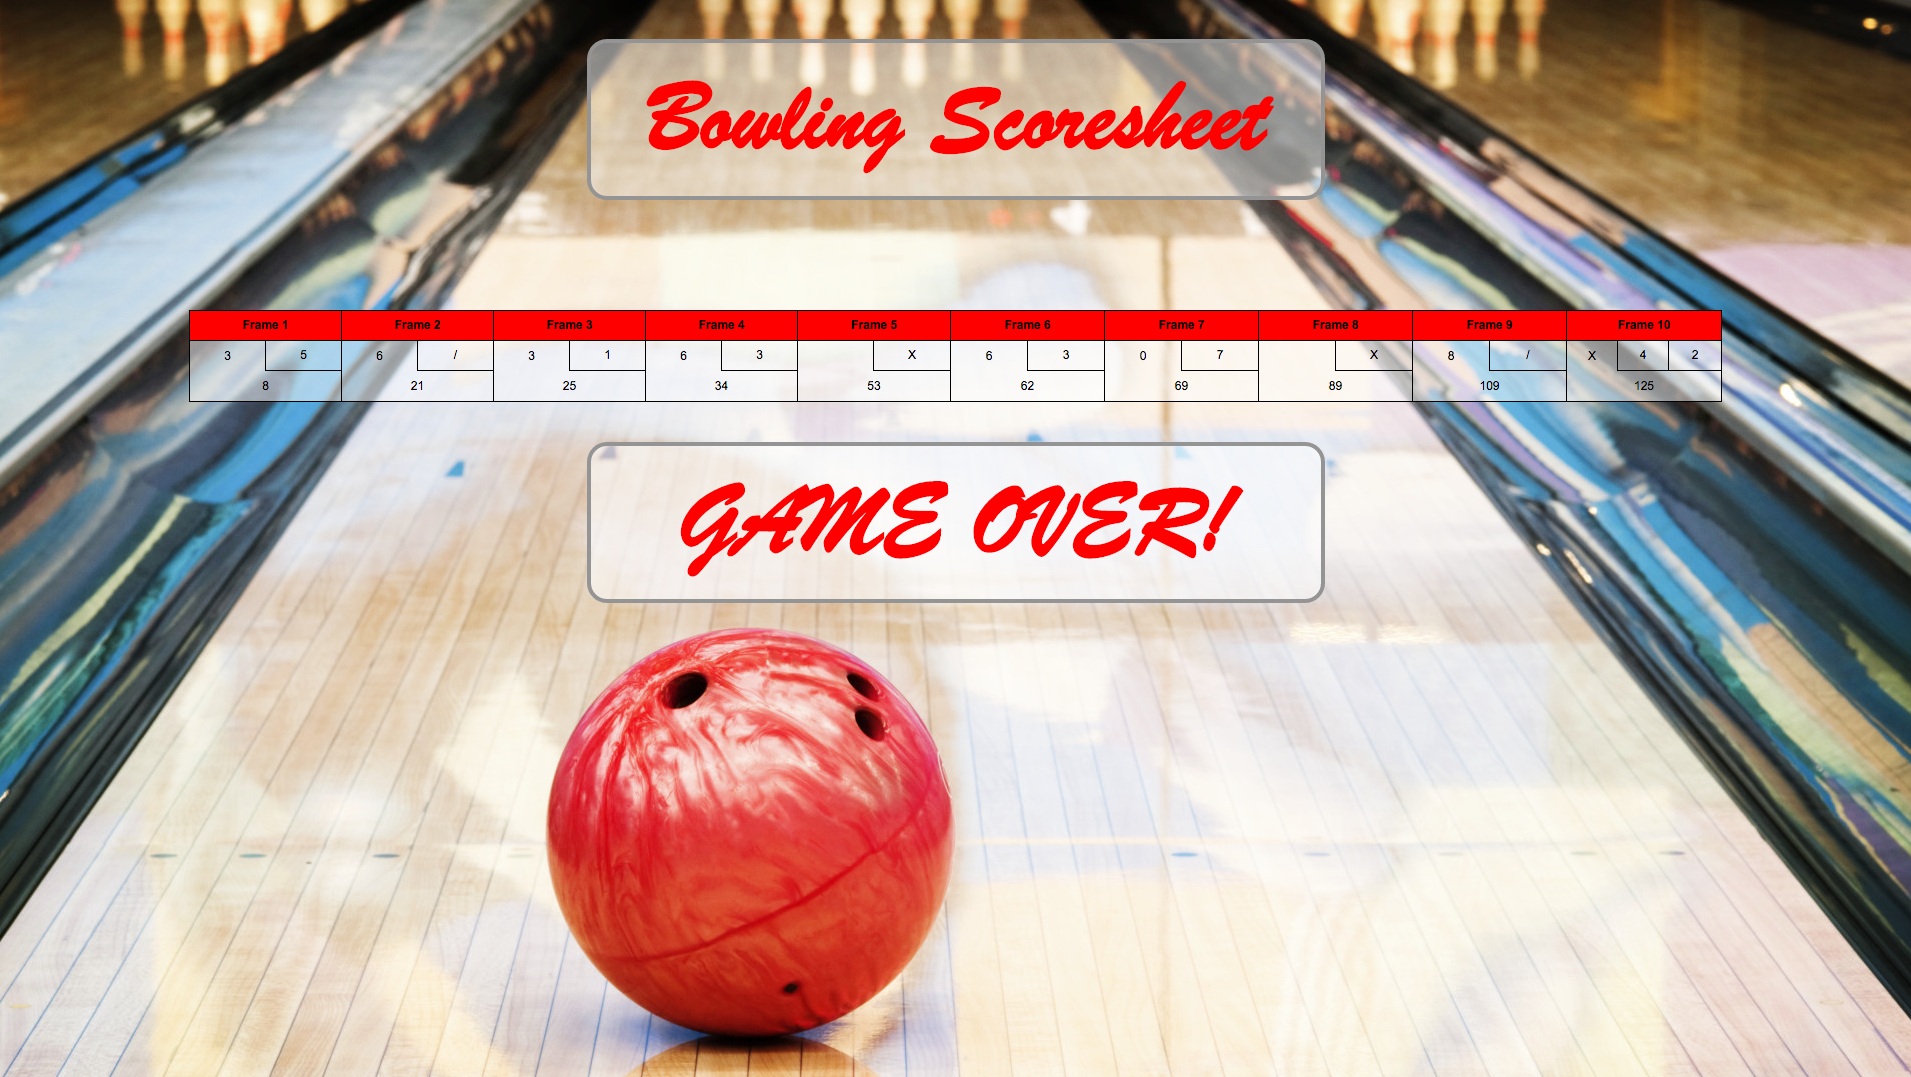
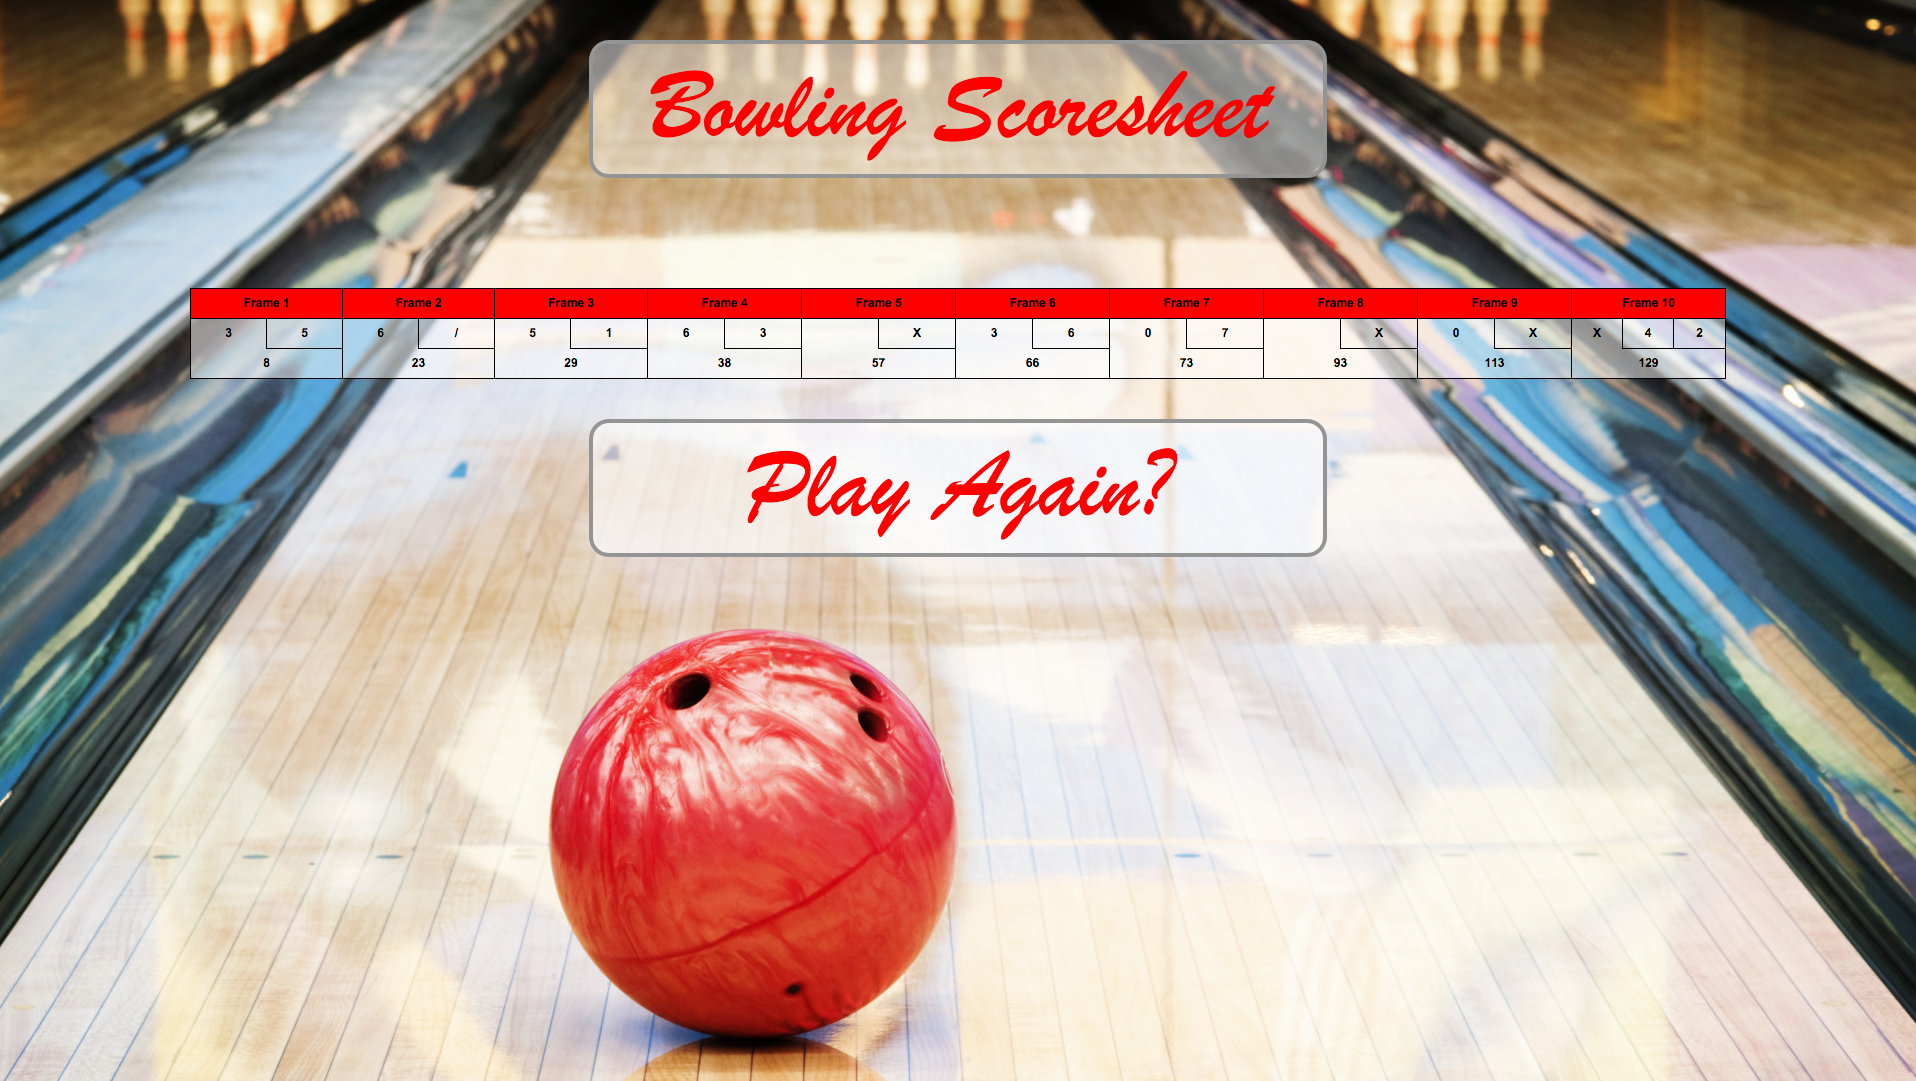
Added: Play again logic

diff --git a/public/js/App.js b/public/js/App.js
@@ -1,16 +1,30 @@
-scoresheet = new Scoresheet;
-
 $(document).ready(function() {
+  scoresheet = new Scoresheet;
   $('#title').hide();
   $('#buttons').hide();
   $('#scoresheet').hide();
   buttons(0);
-  $('#title').hide().fadeIn(500, function() {
+  $('#title').fadeIn(500, function() {
     $('#buttons').fadeIn(500, function() {
-      $('#scoresheet').hide().fadeIn(500);
+      $('#scoresheet').fadeIn(500);
     });
   });
 });
+
+function playAgain() {
+  $('#gameOver').fadeOut(1000, function() {
+    $('#scoresheet').fadeOut(1000, function() {
+      scoresheet = new Scoresheet;
+      $("#scoresheetTable td").html('');
+      $('#buttons').hide( function() {
+          buttons(0);
+        $('#buttons').fadeIn(500, function () {
+          $('#scoresheet').fadeIn(500);
+        });
+      });
+    });
+  });
+}
 
 function press(pinsKnocked) {
   if(scoresheet.frames.length === 0 || scoresheet.currFrameOver()) {
@@ -49,7 +63,7 @@ function buttons(pinsKnocked) {
   for(var i = 0; i < (11-pinsKnocked); i++) {
     buttonStr += '<button type="button" class="button" onclick="press(' + i + ')">' + i + '</button>';
   }
-  document.getElementById('buttons').innerHTML = buttonStr;
+  $('#buttons').html(buttonStr);
 }
 
 function strike(pinsKnocked) {
@@ -89,19 +103,15 @@ function selectRollDisplayContent2(pinsKnocked, currFrame) {
 }
 
 function updateRollDislay(position, currFrame, displayContent) {
-  console.log(currFrame);
-  console.log(position);
-  var rowRollDisplay = document.getElementsByTagName('tr')[1];
-  rowRollDisplay.getElementsByTagName('td')[(currFrame*2)+position].innerHTML = displayContent;
+  $('#scoresheetTable tr:eq(1) td:eq(' + ((currFrame*2)+position) + ')').html(displayContent);
 }
 
 function updateGameScoreDisplay(currFrame) {
   var accumulator = 0;
   for(var i = 0; i < (currFrame+1); i++) {
-    var rowGameTotal = document.getElementsByTagName('tr')[2];
     accumulator += scoresheet.frameScoreDisplay(i)
     if(scoresheet.frameScoreDisplay(i) != null) {
-      rowGameTotal.getElementsByTagName('td')[i].innerHTML = accumulator;
+      $('#scoresheetTable tr:eq(2) td:eq(' + (i) + ')').html(accumulator);
     }
   }
 }
@@ -109,7 +119,9 @@ function updateGameScoreDisplay(currFrame) {
 function gameOver() {
   if(scoresheet.gameOver()) {
     $('.button').prop('onclick',null).off('click');
-    $('#gameOver').hide().addClass('game_over').html('<h1>GAME OVER!</h1>').fadeIn(1000);
     $('.button').fadeOut(1000);
+    $('#gameOver').hide().addClass('game_over').html('<h1>Game Over!</h1>').fadeIn(1000).fadeOut(1000, function () {
+      $('#gameOver').html('<h1><a id="playAgain" href="#" onclick="playAgain();return false;">Play Again?</a></h1>').fadeIn(1000);
+    });
   }
 }

diff --git a/public/index.html b/public/index.html
@@ -17,7 +17,7 @@
   <div id='buttons' class='buttons'></div>
 
   <div id='scoresheet'>
-    <table class='scoresheet' cellpadding='1' cellspacing='0'>
+    <table id='scoresheetTable' class='scoresheet' cellpadding='1' cellspacing='0'>
       <tr>
         <th colspan='6'>Frame 1</th>
         <th colspan='6'>Frame 2</th>

diff --git a/public/css/style.css b/public/css/style.css
@@ -17,6 +17,14 @@ h1 {
   font-size: 100px;
 }
 
+a {
+  text-decoration:none;
+}
+
+a:visited {
+  color:red;
+}
+
 .title {
   margin: 0 auto;
   background: rgba(255, 255, 255, 0.5);

diff --git a/README.md b/README.md
@@ -19,8 +19,6 @@ Next Steps:
 -------
 
 - Refactor Scoresheet.js and App.js to make more readable.
-- Option to start another game at end of each finished game (via link).
-
 
 Live demo on Heroku:
 -------
